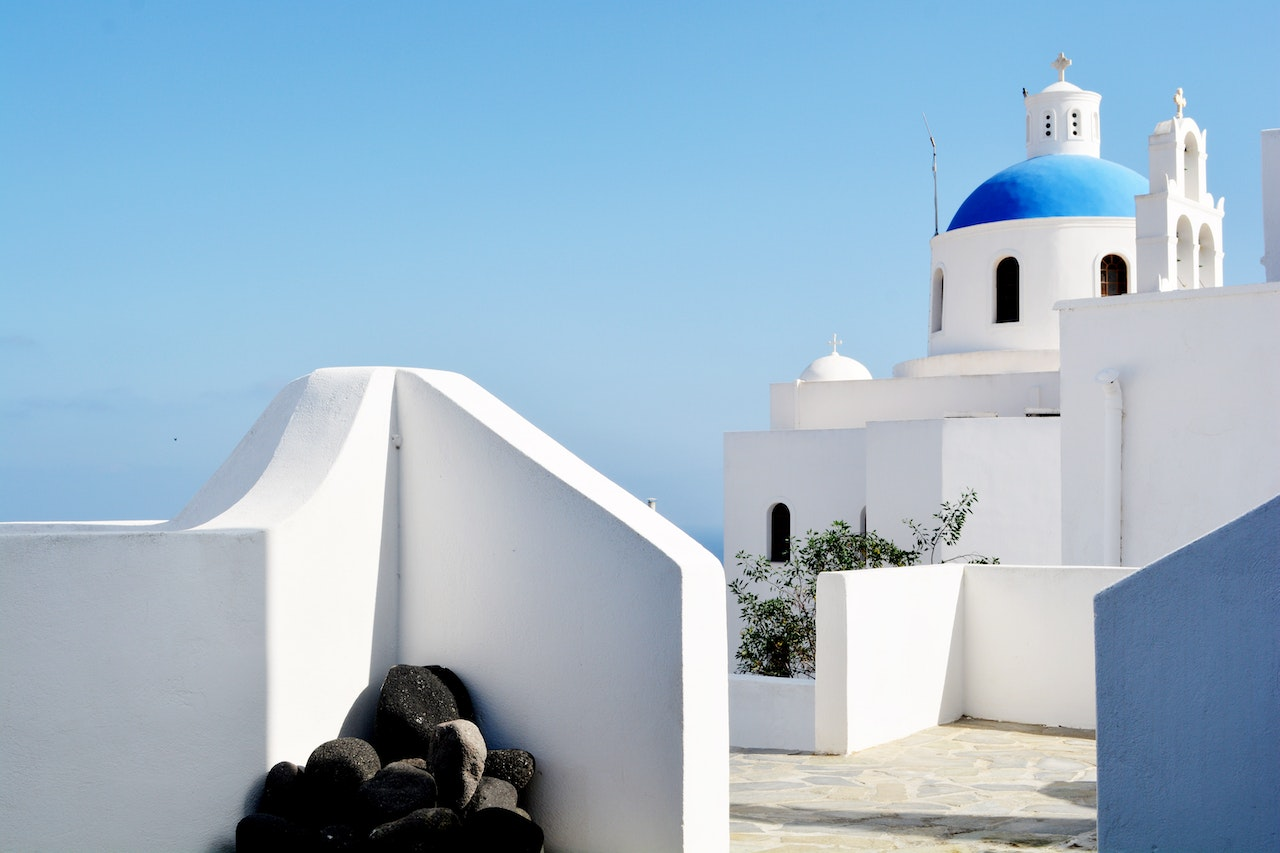
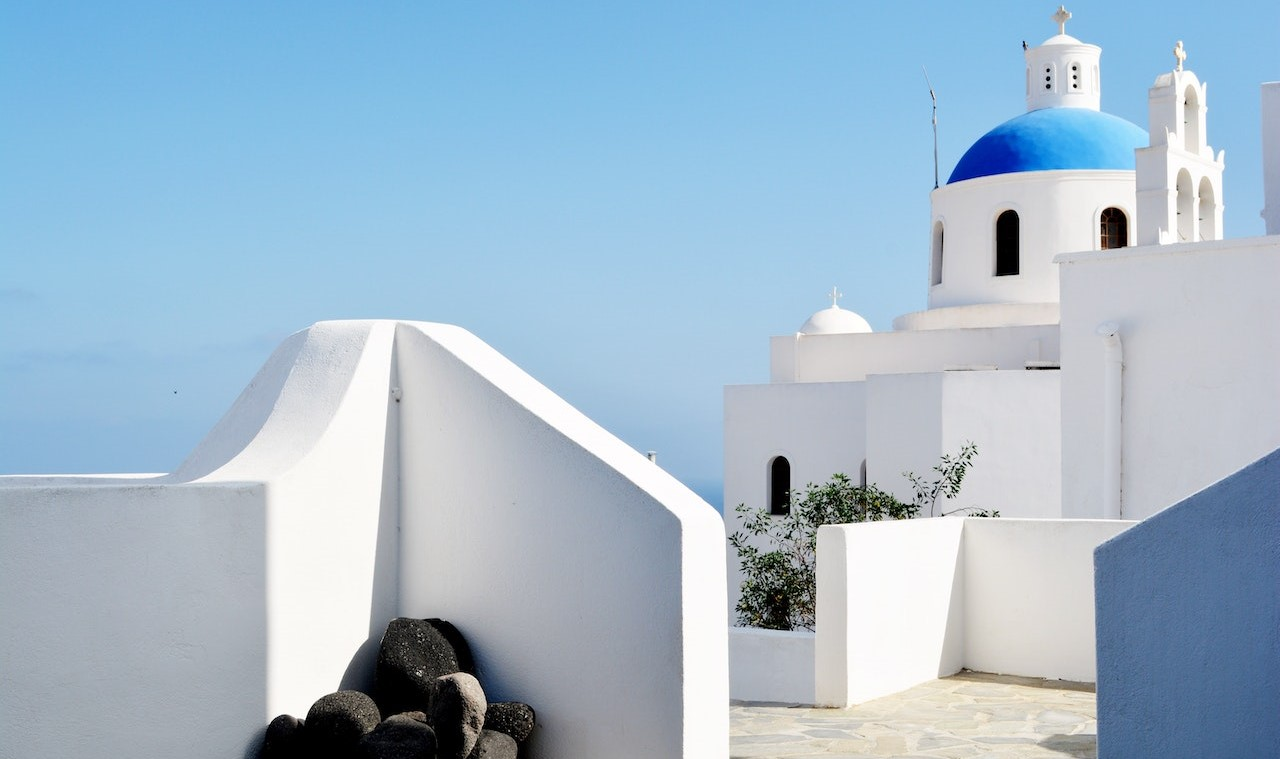
modified CarouselBox components, src fotos

diff --git a/src/Pages/About.js b/src/Pages/About.js
@@ -18,7 +18,7 @@ export default class About extends Component {
         <Tab.Container id="left-tabs-example" defaultActiveKey="first">
           <Row>
             <Col sm={3}>
-              <Nav variant="pills" className="flex-column mt-2">
+              <Nav variant="pills" className="flex-column mt-3">
                 <Nav.Item>
                   <Nav.Link eventKey="first">Design</Nav.Link>
                 </Nav.Item>
@@ -43,7 +43,7 @@ export default class About extends Component {
                     className="d-block w-100 h-100px"
                     src="https://images.pexels.com/photos/1001990/pexels-photo-1001990.jpeg?auto=compress&cs=tinysrgb&w=600"
                   />
-                  <p>
+                  <p className="par1 mt-5">
                     Lorem Ipsum is simply dummy text of the printing and
                     typesetting industry. Lorem Ipsum has been the industry's
                     standard dummy text ever since the
@@ -54,7 +54,7 @@ export default class About extends Component {
                     className="d-block w-100 h-100"
                     src="https://images.pexels.com/photos/3183150/pexels-photo-3183150.jpeg?auto=compress&cs=tinysrgb&w=600"
                   />
-                  <p>
+                  <p className="par2 mt-5">
                     Lorem Ipsum is simply dummy text of the printing and
                     typesetting industry. Lorem Ipsum has been the industry's
                     standard dummy text ever since the
@@ -65,7 +65,7 @@ export default class About extends Component {
                     className="d-block w-100 h-100"
                     src="https://images.pexels.com/photos/574069/pexels-photo-574069.jpeg?auto=compress&cs=tinysrgb&w=600"
                   />
-                  <p>
+                  <p className="par3 mt-5">
                     Lorem Ipsum is simply dummy text of the printing and
                     typesetting industry. Lorem Ipsum has been the industry's
                     standard dummy text ever since the
@@ -76,7 +76,7 @@ export default class About extends Component {
                     className="d-block w-100 h-100"
                     src="https://images.pexels.com/photos/8124413/pexels-photo-8124413.jpeg?auto=compress&cs=tinysrgb&w=500"
                   />
-                  <p>
+                  <p className="par4 mt-5">
                     Lorem Ipsum is simply dummy text of the printing and
                     typesetting industry. Lorem Ipsum has been the industry's
                     standard dummy text ever since the
@@ -87,7 +87,7 @@ export default class About extends Component {
                     className="d-block w-100 h-100"
                     src="https://images.pexels.com/photos/1765033/pexels-photo-1765033.jpeg?auto=compress&cs=tinysrgb&w=600"
                   />
-                  <p>
+                  <p className="par5 mt-5">
                     Lorem ipsum — классический текст-«рыба». Является искажённым
                     отрывком из философского трактата Марка Туллия Цицерона «О
                     пределах добра и зла», написанного в 45 году до н. э. на
@@ -115,7 +115,7 @@ export default class About extends Component {
             <Form.Group controlId="formBasicCheckbox">
               <Form.Check type="checkbox" label="Check me out" />
             </Form.Group>
-            <Button variant="primary" type="submit">
+            <Button className="mt-5" variant="primary" type="submit">
               Submit
             </Button>
           </Form>

diff --git a/src/Pages/Home.js b/src/Pages/Home.js
@@ -12,7 +12,7 @@ export default class Home extends Component {
           <Row md={3}>
             <Card>
               <Card.Img
-                className="d-block w-100 h-100"
+                className="d-block w-100 h-100 mt-2"
                 variant="top"
                 src="https://images.pexels.com/photos/1660915/pexels-photo-1660915.jpeg?auto=compress&cs=tinysrgb&w=400"
               />
@@ -28,7 +28,7 @@ export default class Home extends Component {
             </Card>
             <Card>
               <Card.Img
-                className="d-block w-100 h-100"
+                className="d-block w-100 h-100 mt-2"
                 variant="top"
                 src="https://images.pexels.com/photos/2290744/pexels-photo-2290744.jpeg?auto=compress&cs=tinysrgb&w=400"
               />
@@ -44,7 +44,7 @@ export default class Home extends Component {
             </Card>
             <Card>
               <Card.Img
-                className="d-block w-100 h-100 "
+                className="d-block w-100 h-100 mt-2"
                 variant="top"
                 src="https://images.pexels.com/photos/2611070/pexels-photo-2611070.jpeg?auto=compress&cs=tinysrgb&w=400"
               />

diff --git a/src/components/CarouselBox.js b/src/components/CarouselBox.js
@@ -9,7 +9,7 @@ export default class CarouselBox extends Component {
     return (
       <Carousel className="mt-3">
         <Carousel.Item>
-          <img className="d-block, w-100% " src={grAImg} alt="grA" />
+          <img className="d-block, w-100 " src={grAImg} alt="grA" />
           <Carousel.Caption>
             <h3>Greece impresses, surprises, inspires</h3>
             <p>
@@ -20,7 +20,7 @@ export default class CarouselBox extends Component {
           </Carousel.Caption>
         </Carousel.Item>
         <Carousel.Item>
-          <img className="d-block, w-100% h-100% " src={grBImg} alt="grB" />
+          <img className="d-block, w-100 h-100 " src={grBImg} alt="grB" />
           <Carousel.Caption>
             <h3>Greece impresses, surprises, inspires</h3>
             <p>
@@ -31,7 +31,7 @@ export default class CarouselBox extends Component {
           </Carousel.Caption>
         </Carousel.Item>
         <Carousel.Item>
-          <img className="d-block, w-100% " src={grCImg} alt="grC" />
+          <img className="d-block, w-100 " src={grCImg} alt="grC" />
           <Carousel.Caption>
             <h3>Greece impresses, surprises, inspires</h3>
             <p>
